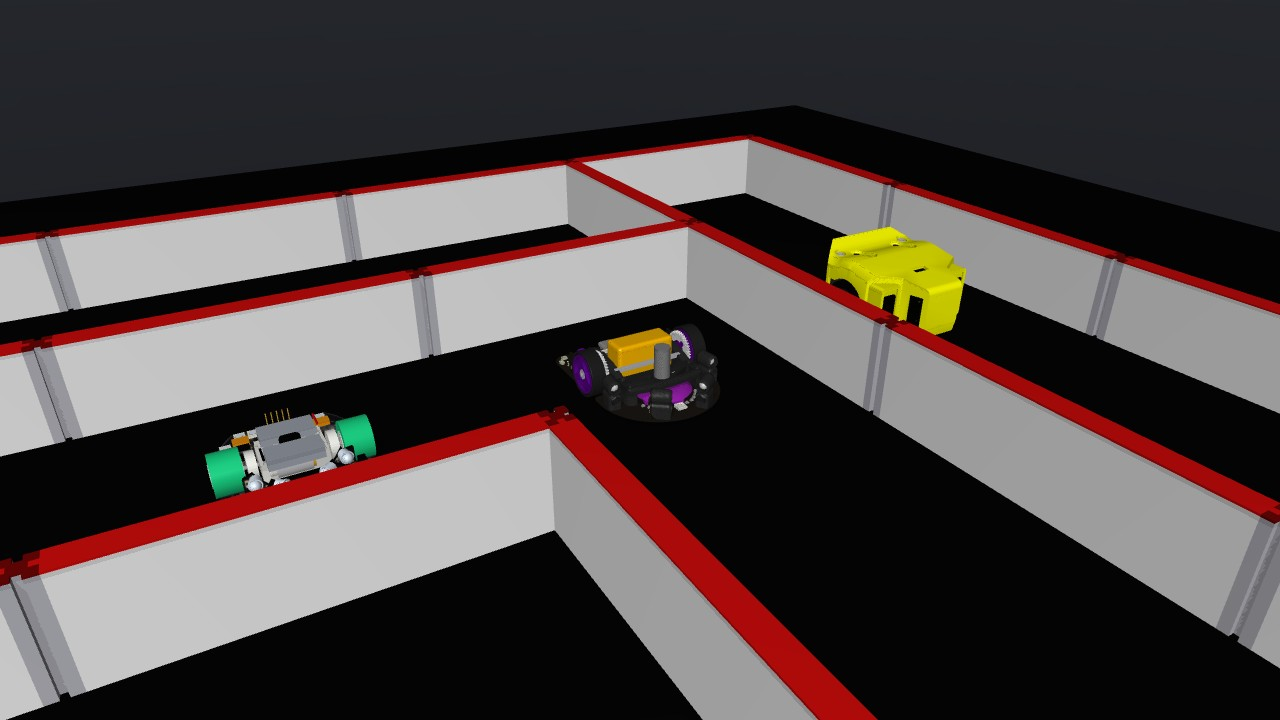
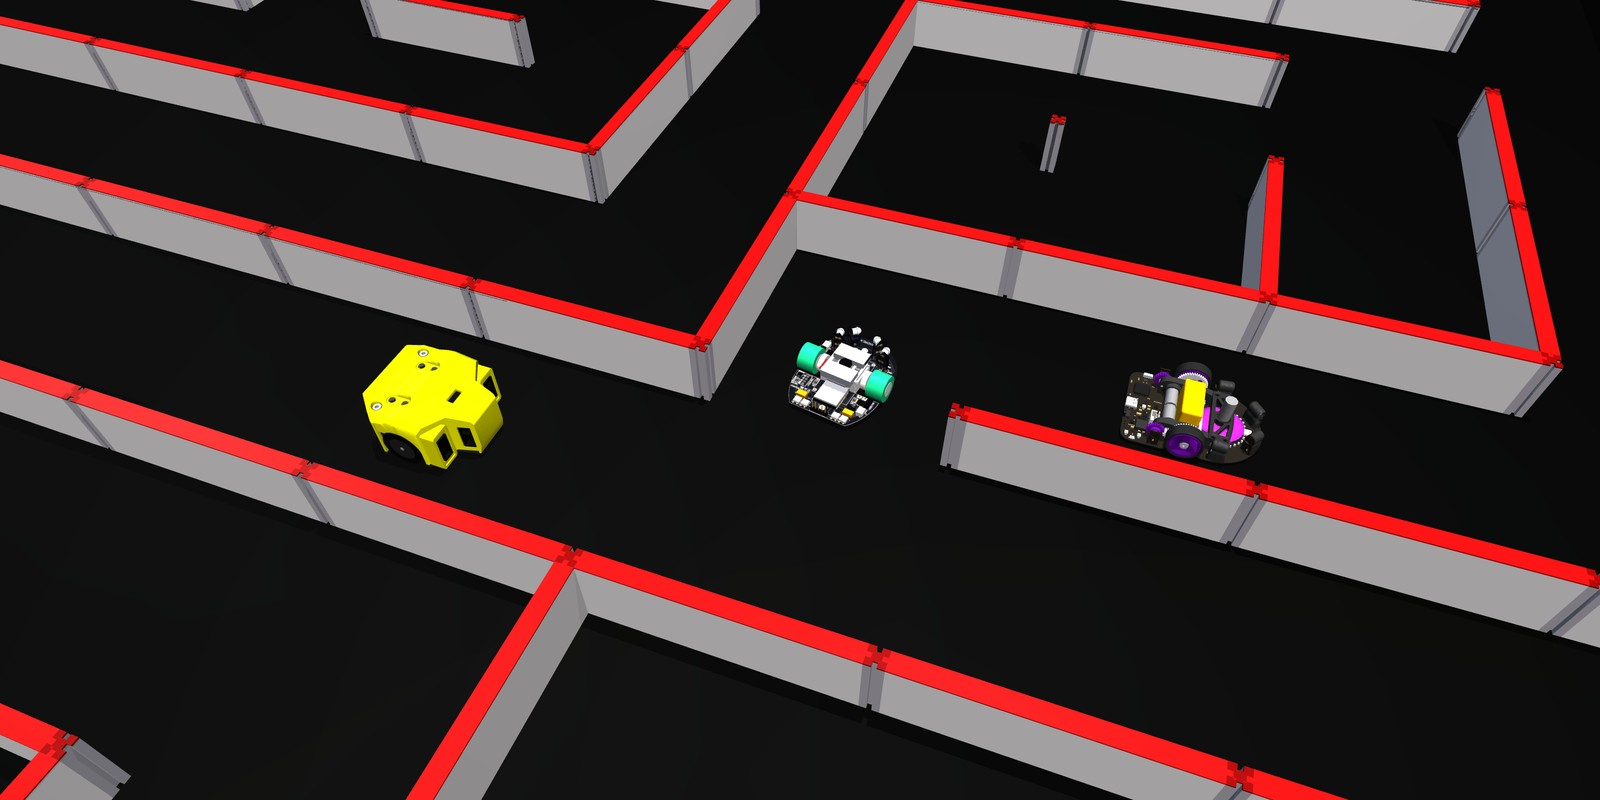
README's picture: Ratatron, Gamusino and ZoroBot3 in the middle of the OSHWDEM 2026 maze, each going its own way, from above (no sky); a dimmer headlight and a key light from the side (the walls with a lit and a shaded face), rendered at twice its 1600x800 and scaled down

diff --git a/ratasim/scenes/portraits.py b/ratasim/scenes/portraits.py
@@ -5,6 +5,7 @@ picture of them in a maze.
     ratasim portraits [DIR] --only NAME...  those robots' portraits only
 """
 import argparse
+import math
 import os
 
 import mujoco
@@ -39,19 +40,35 @@ STUDIO = ('<geom name="floor" type="plane" size="4 4 0.1" rgba="0.10 0.11 0.13 1
           '<light directional="true" pos="-1 -1 2" dir="0.8 0.6 -0.6" diffuse="0.25 0.25 0.28" castshadow="false"/>')
 
 
-def maze_picture(out):
-    """The robots side by side in the maze's first cells, from above at three quarters."""
-    m, d = K.compile(K.scene_xml(Maze.load(maze_path('oshwdem2026')), gamusino=True))
+MAZE_BOTS = (     # prefix, cell (x, y), heading (deg): each its own way, in the middle of the maze
+    ('', 6.1, 5.5, 0),          # Ratatron east along its corridor
+    ('g_', 7.5, 6.25, 80),      # Gamusino north through the gap
+    ('z_', 8.8, 6.5, 0))        # ZoroBot3 east
+
+
+def maze_picture(out, w=1600, h=800):
+    """Ratatron, Gamusino and ZoroBot3 in the middle of the maze, each going its own way, from above (no sky): a
+    dimmer headlight and a key light from the side so that the walls have a lit and a shaded face, rendered at twice
+    the size and scaled down (smooth edges)."""
+    xml = K.scene_xml(Maze.load(maze_path('oshwdem2026')), gamusino=True)
+    xml = xml.replace('<headlight ambient="0.35 0.35 0.35" diffuse="0.5 0.5 0.5"/>',
+                      '<headlight ambient="0.22 0.22 0.24" diffuse="0.15 0.15 0.15" specular="0.05 0.05 0.05"/>')
+    xml = xml.replace('</worldbody>', '<light directional="true" dir="-0.5 0.6 -1" diffuse="0.75 0.73 0.7" castshadow="true"/>'
+                      '<light directional="true" dir="0.7 -0.3 -0.6" diffuse="0.2 0.22 0.26" castshadow="false"/>'
+                      '</worldbody>', 1)
+    m, d = K.compile(xml)
+    m.vis.global_.offwidth, m.vis.global_.offheight = 2 * w, 2 * h
+    m.vis.map.shadowclip = 0.8
     cell = K.C.CELL_MM * K.MM
-    for (x, y), prefix in zip(((0.5, 1.5), (1.5, 1.5), (2.5, 1.5)), ('', 'z_', 'g_')):
-        K.Bot(m, d, prefix).place(x * cell, y * cell, 1.5708)
+    for prefix, x, y, heading in MAZE_BOTS:
+        K.Bot(m, d, prefix).place(x * cell, y * cell, math.radians(heading))
     for _ in range(600):
         mujoco.mj_step(m, d)
-    ren, cam = mujoco.Renderer(m, 720, 1280), mujoco.MjvCamera()
-    cam.lookat[:] = (1.5 * cell, 1.5 * cell, 0.012)
-    cam.distance, cam.azimuth, cam.elevation = 0.47, 240, -27
+    ren, cam = mujoco.Renderer(m, 2 * h, 2 * w), mujoco.MjvCamera()
+    cam.lookat[:] = (7.4 * cell, 6.0 * cell, 0.02)
+    cam.distance, cam.azimuth, cam.elevation = 0.66, 110, -48
     ren.update_scene(d, cam)
-    Image.fromarray(ren.render()).save(out, quality=90)
+    Image.fromarray(ren.render()).resize((w, h), Image.LANCZOS).save(out, quality=90)
     print('->', out)
 
 

diff --git a/README.md b/README.md
@@ -2,7 +2,7 @@
 
 [![CI](https://github.com/JavierIH/ratasim/actions/workflows/ci.yml/badge.svg)](https://github.com/JavierIH/ratasim/actions/workflows/ci.yml)
 
-![Gamusino, ZoroBot3 and Ratatron in the OSHWDEM 2026 maze](docs/images/maze.jpg)
+![Ratatron, Gamusino and ZoroBot3 in the OSHWDEM 2026 maze](docs/images/maze.jpg)
 
 Micromouse robots in [MuJoCo](https://mujoco.org), each driven by **its own firmware**, compiled for the host and
 unchanged, on a simulated chip (motors, encoders, IR sensors, gyro, flash, serial port), in mazes by the rules (16x16
